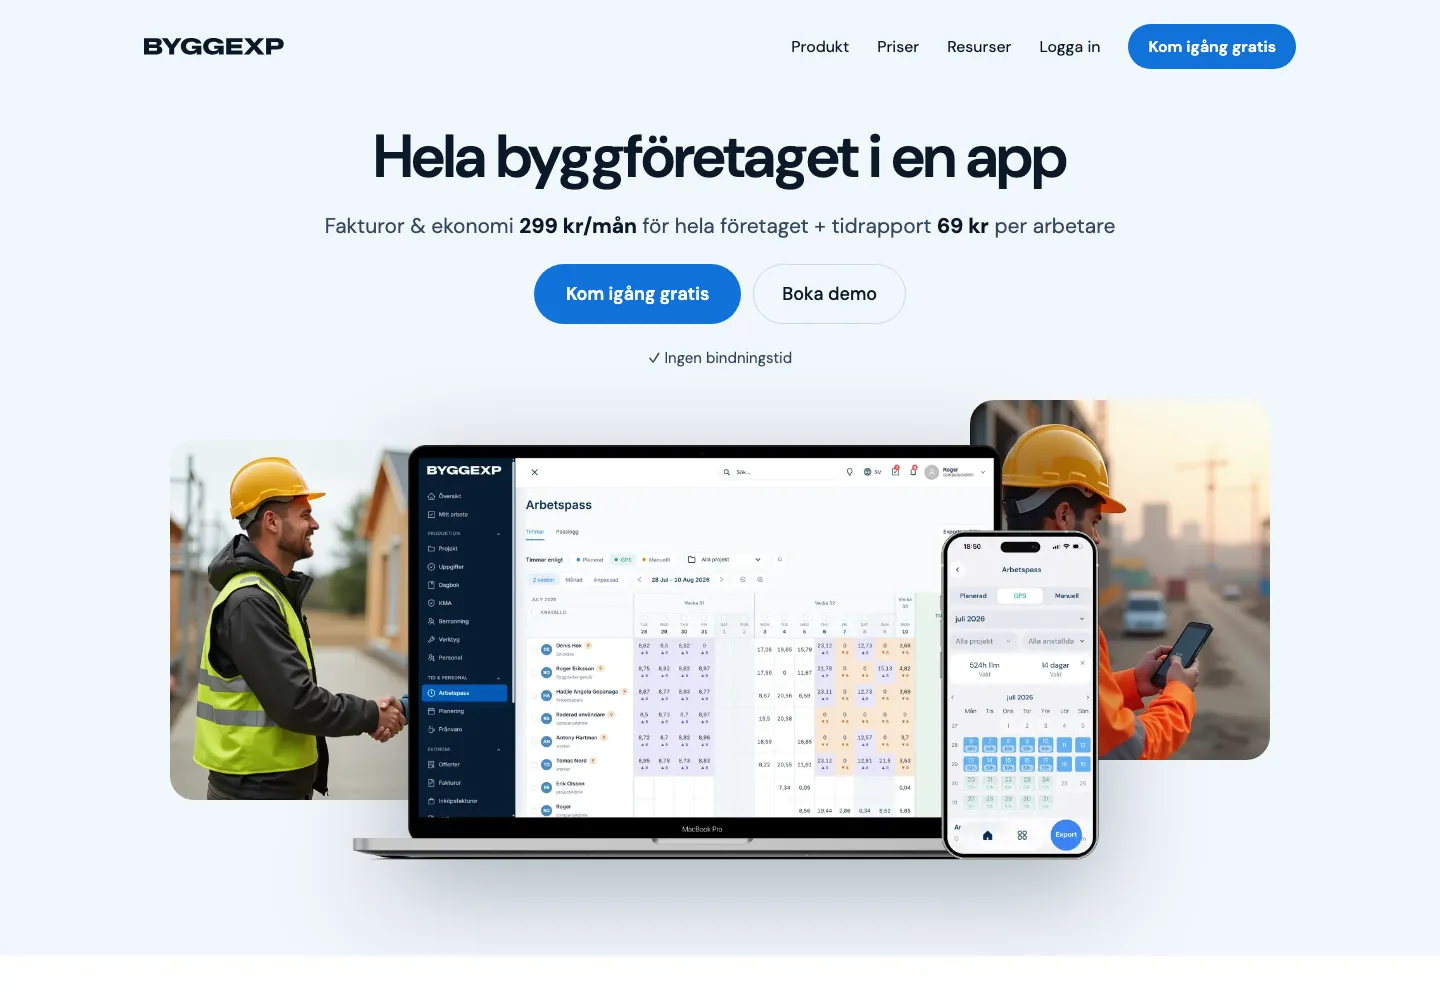
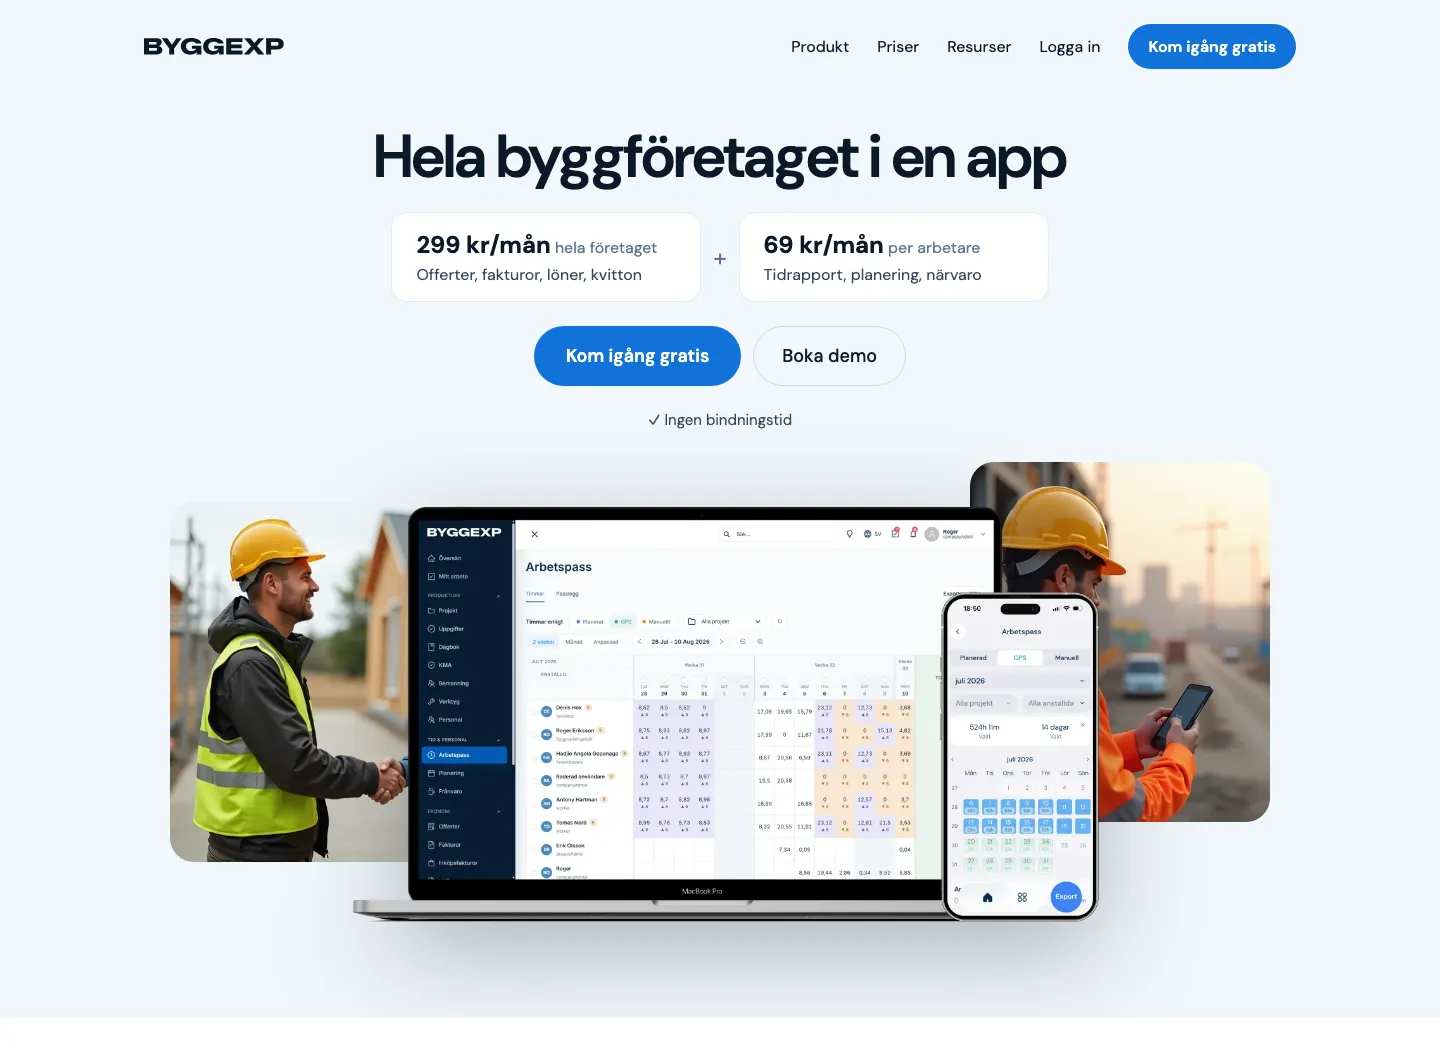
docs(design): Hero 2 – två priskort med vad som ingår (299 / 69 per arbetare)

diff --git a/docs/design/startsida-mockups-2026-10/Hero-2.html b/docs/design/startsida-mockups-2026-10/Hero-2.html
@@ -29,7 +29,17 @@ a{color:#1272d9}a:hover{color:#0b5bb3}
 <div style="max-width: 1200px; margin: 0 auto; box-sizing: border-box; padding: 32px 24px 96px; display: flex; flex-direction: column; align-items: center; gap: 32px;">
 <div style="display: flex; flex-direction: column; gap: 24px; align-items: center; text-align: center;">
 <h1 style="margin: 0; max-width: 860px; font-size: clamp(38px, 4.4vw, 60px); line-height: 1.05; font-weight: 600; letter-spacing: -0.02em;">Hela byggföretaget i en app</h1>
-<p style="margin: 0; font-size: 21px; color: #33475e;">Fakturor &amp; ekonomi <strong style="color: #0a1828;">299 kr/mån</strong> för hela företaget + tidrapport <strong style="color: #0a1828;">69 kr</strong> per arbetare</p>
+<div style="display: flex; flex-wrap: wrap; gap: 12px; justify-content: center; align-items: stretch;">
+<div style="background: #ffffff; border: 1px solid #e1eaf3; border-radius: 16px; padding: 16px 24px; display: flex; flex-direction: column; gap: 4px; text-align: left; min-width: 260px;">
+<div><strong style="font-size: 24px; color: #0a1828;">299 kr/mån</strong> <span style="font-size: 16px; color: #5b7591;">hela företaget</span></div>
+<div style="font-size: 16px; color: #33475e;">Offerter, fakturor, löner, kvitton</div>
+</div>
+<span aria-hidden="true" style="align-self: center; font-size: 24px; color: #5b7591;">+</span>
+<div style="background: #ffffff; border: 1px solid #e1eaf3; border-radius: 16px; padding: 16px 24px; display: flex; flex-direction: column; gap: 4px; text-align: left; min-width: 260px;">
+<div><strong style="font-size: 24px; color: #0a1828;">69 kr/mån</strong> <span style="font-size: 16px; color: #5b7591;">per arbetare</span></div>
+<div style="font-size: 16px; color: #33475e;">Tidrapport, planering, närvaro</div>
+</div>
+</div>
 <div style="display: flex; flex-wrap: wrap; gap: 12px; justify-content: center;">
 <a href="#" style="background: #1272d9; color: #ffffff; text-decoration: none; padding: 18px 32px; border-radius: 999px; font-size: 18px; font-weight: 600;">Kom igång gratis</a>
 <a href="#" style="border: 1px solid #c9d8e8; color: #0a1828; text-decoration: none; padding: 17px 28px; border-radius: 999px; font-size: 18px; font-weight: 500;">Boka demo</a>

diff --git a/docs/design/startsida-mockups-2026-10/canvas-src/Hero2.dc.html b/docs/design/startsida-mockups-2026-10/canvas-src/Hero2.dc.html
@@ -29,7 +29,17 @@ a{color:#1272d9}a:hover{color:#0b5bb3}
 <div style="max-width: 1200px; margin: 0 auto; box-sizing: border-box; padding: 32px 24px 96px; display: flex; flex-direction: column; align-items: center; gap: 32px;">
 <div style="display: flex; flex-direction: column; gap: 24px; align-items: center; text-align: center;">
 <h1 style="margin: 0; max-width: 860px; font-size: clamp(38px, 4.4vw, 60px); line-height: 1.05; font-weight: 600; letter-spacing: -0.02em;">Hela byggföretaget i en app</h1>
-<p style="margin: 0; font-size: 21px; color: #33475e;">Fakturor &amp; ekonomi <strong style="color: #0a1828;">299 kr/mån</strong> för hela företaget + tidrapport <strong style="color: #0a1828;">69 kr</strong> per arbetare</p>
+<div style="display: flex; flex-wrap: wrap; gap: 12px; justify-content: center; align-items: stretch;">
+<div style="background: #ffffff; border: 1px solid #e1eaf3; border-radius: 16px; padding: 16px 24px; display: flex; flex-direction: column; gap: 4px; text-align: left; min-width: 260px;">
+<div><strong style="font-size: 24px; color: #0a1828;">299 kr/mån</strong> <span style="font-size: 16px; color: #5b7591;">hela företaget</span></div>
+<div style="font-size: 16px; color: #33475e;">Offerter, fakturor, löner, kvitton</div>
+</div>
+<span aria-hidden="true" style="align-self: center; font-size: 24px; color: #5b7591;">+</span>
+<div style="background: #ffffff; border: 1px solid #e1eaf3; border-radius: 16px; padding: 16px 24px; display: flex; flex-direction: column; gap: 4px; text-align: left; min-width: 260px;">
+<div><strong style="font-size: 24px; color: #0a1828;">69 kr/mån</strong> <span style="font-size: 16px; color: #5b7591;">per arbetare</span></div>
+<div style="font-size: 16px; color: #33475e;">Tidrapport, planering, närvaro</div>
+</div>
+</div>
 <div style="display: flex; flex-wrap: wrap; gap: 12px; justify-content: center;">
 <a href="#" style="background: #1272d9; color: #ffffff; text-decoration: none; padding: 18px 32px; border-radius: 999px; font-size: 18px; font-weight: 600;">Kom igång gratis</a>
 <a href="#" style="border: 1px solid #c9d8e8; color: #0a1828; text-decoration: none; padding: 17px 28px; border-radius: 999px; font-size: 18px; font-weight: 500;">Boka demo</a>
